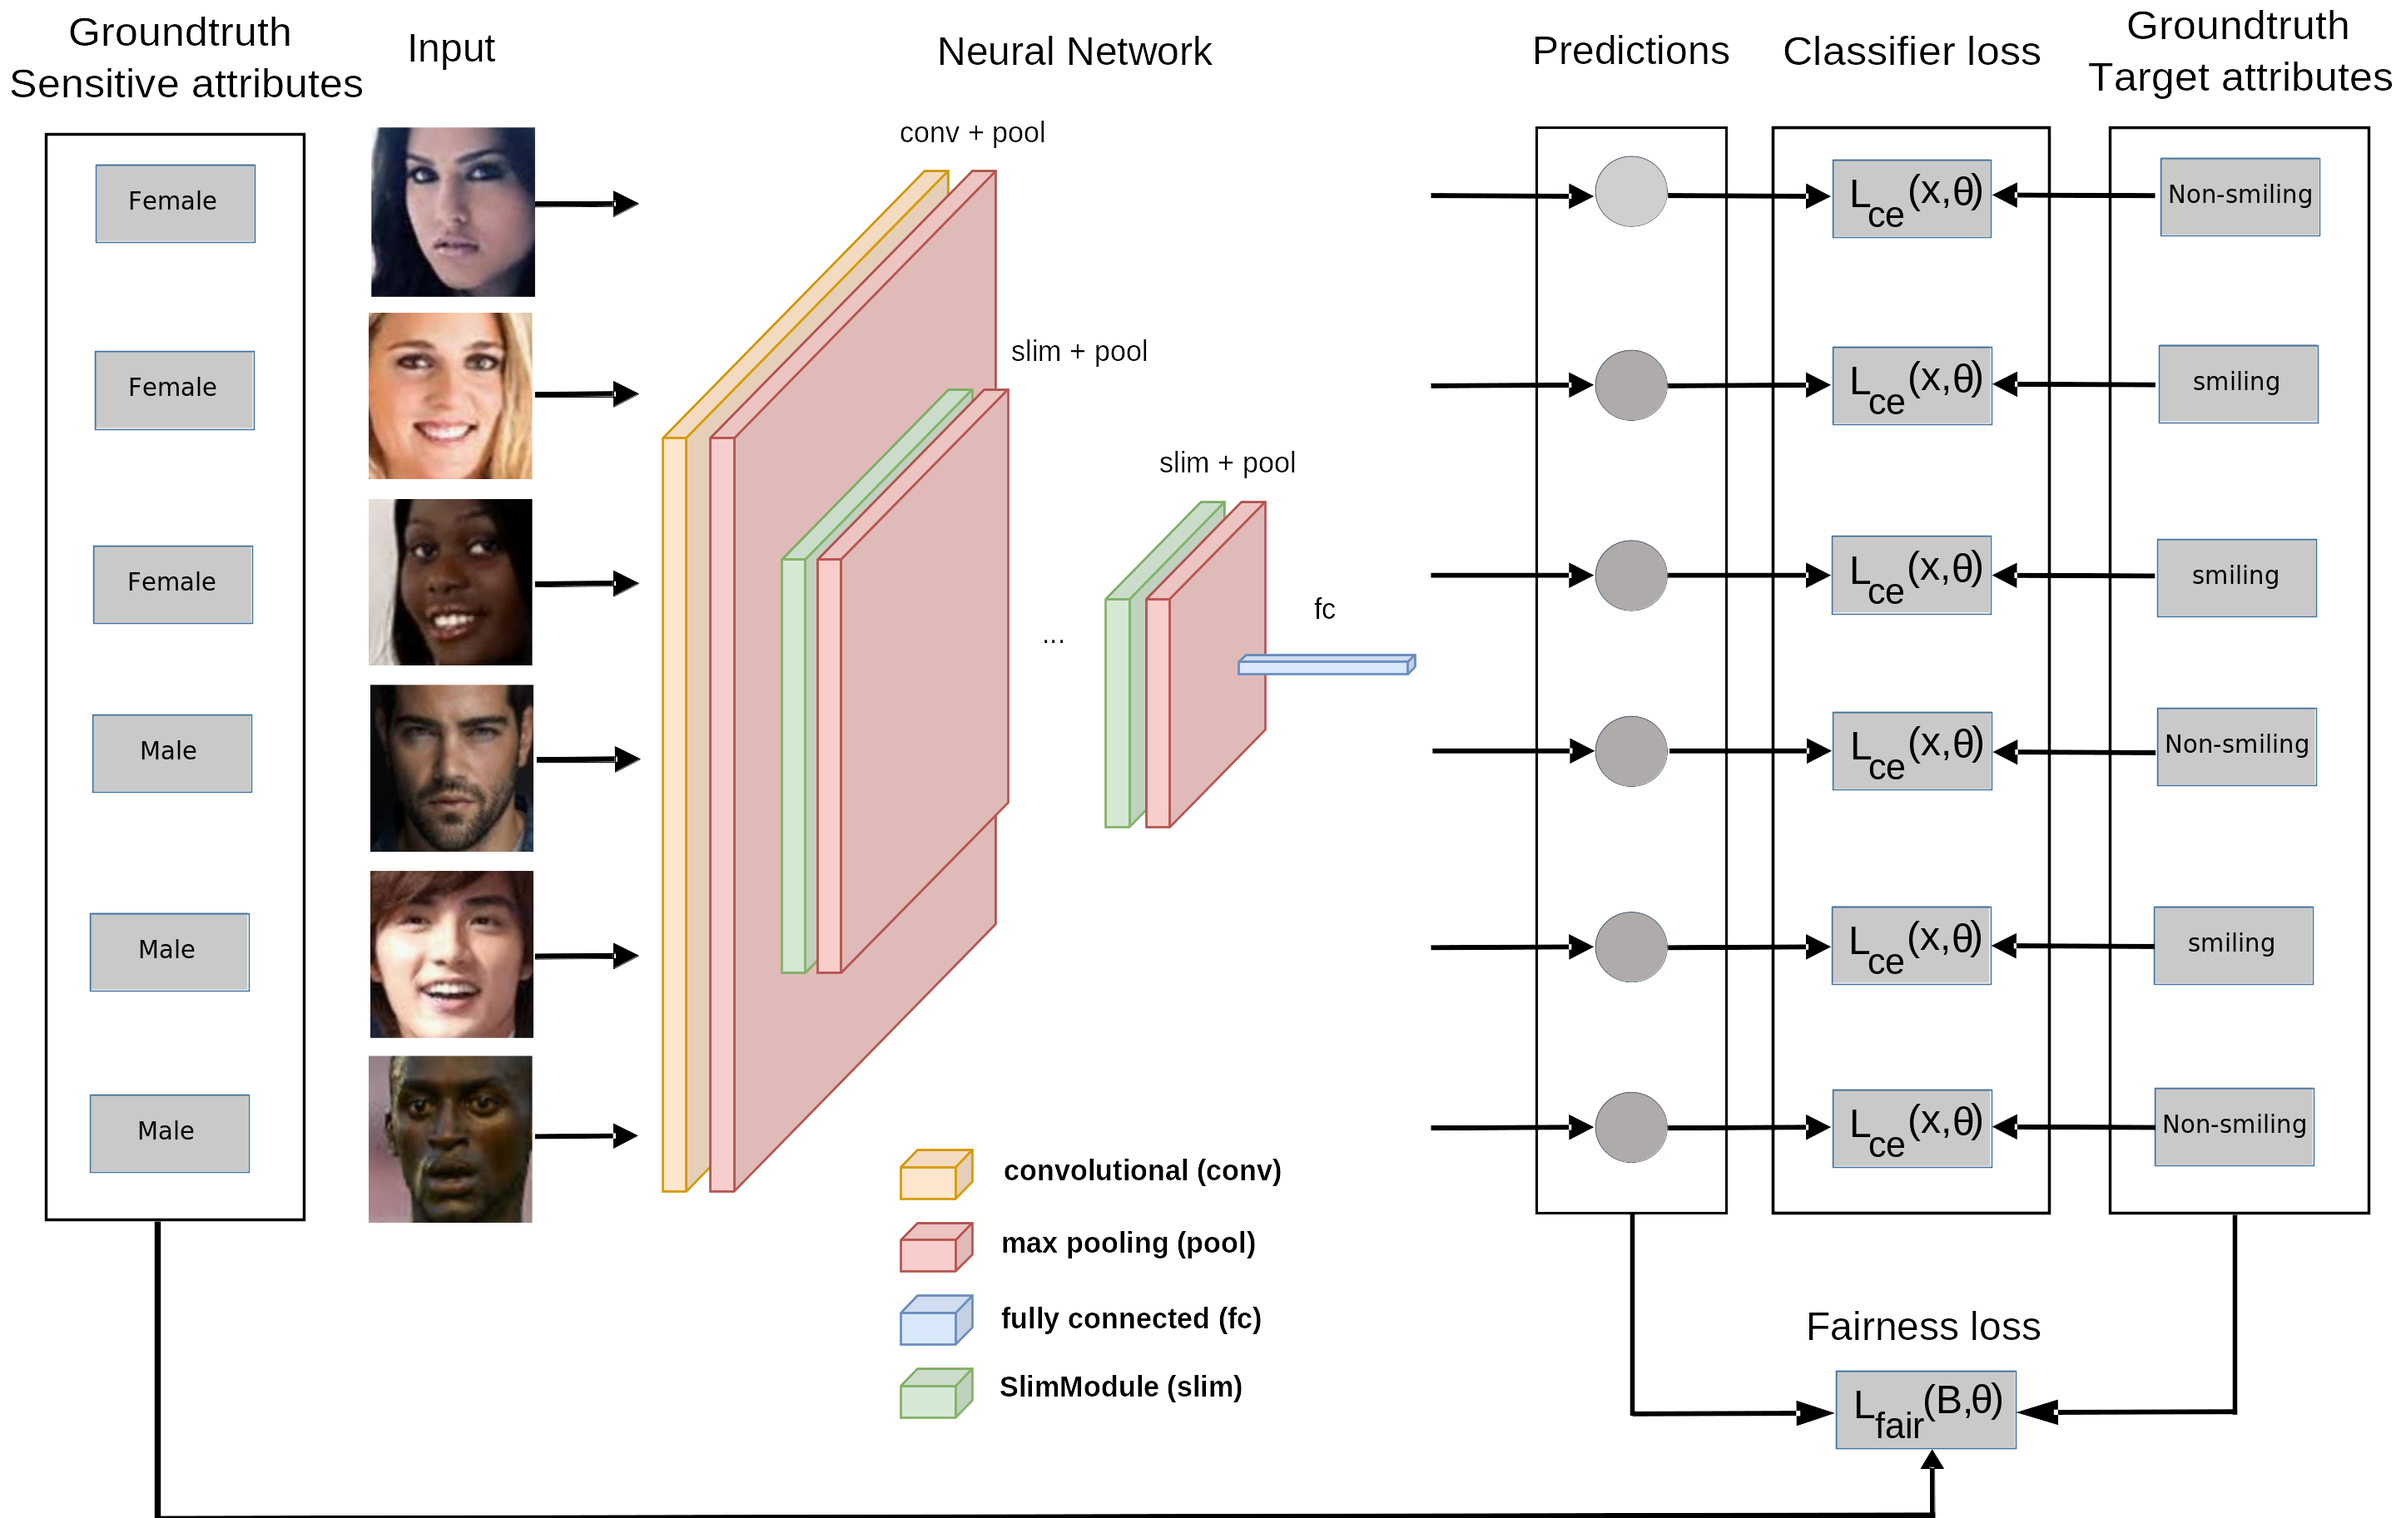
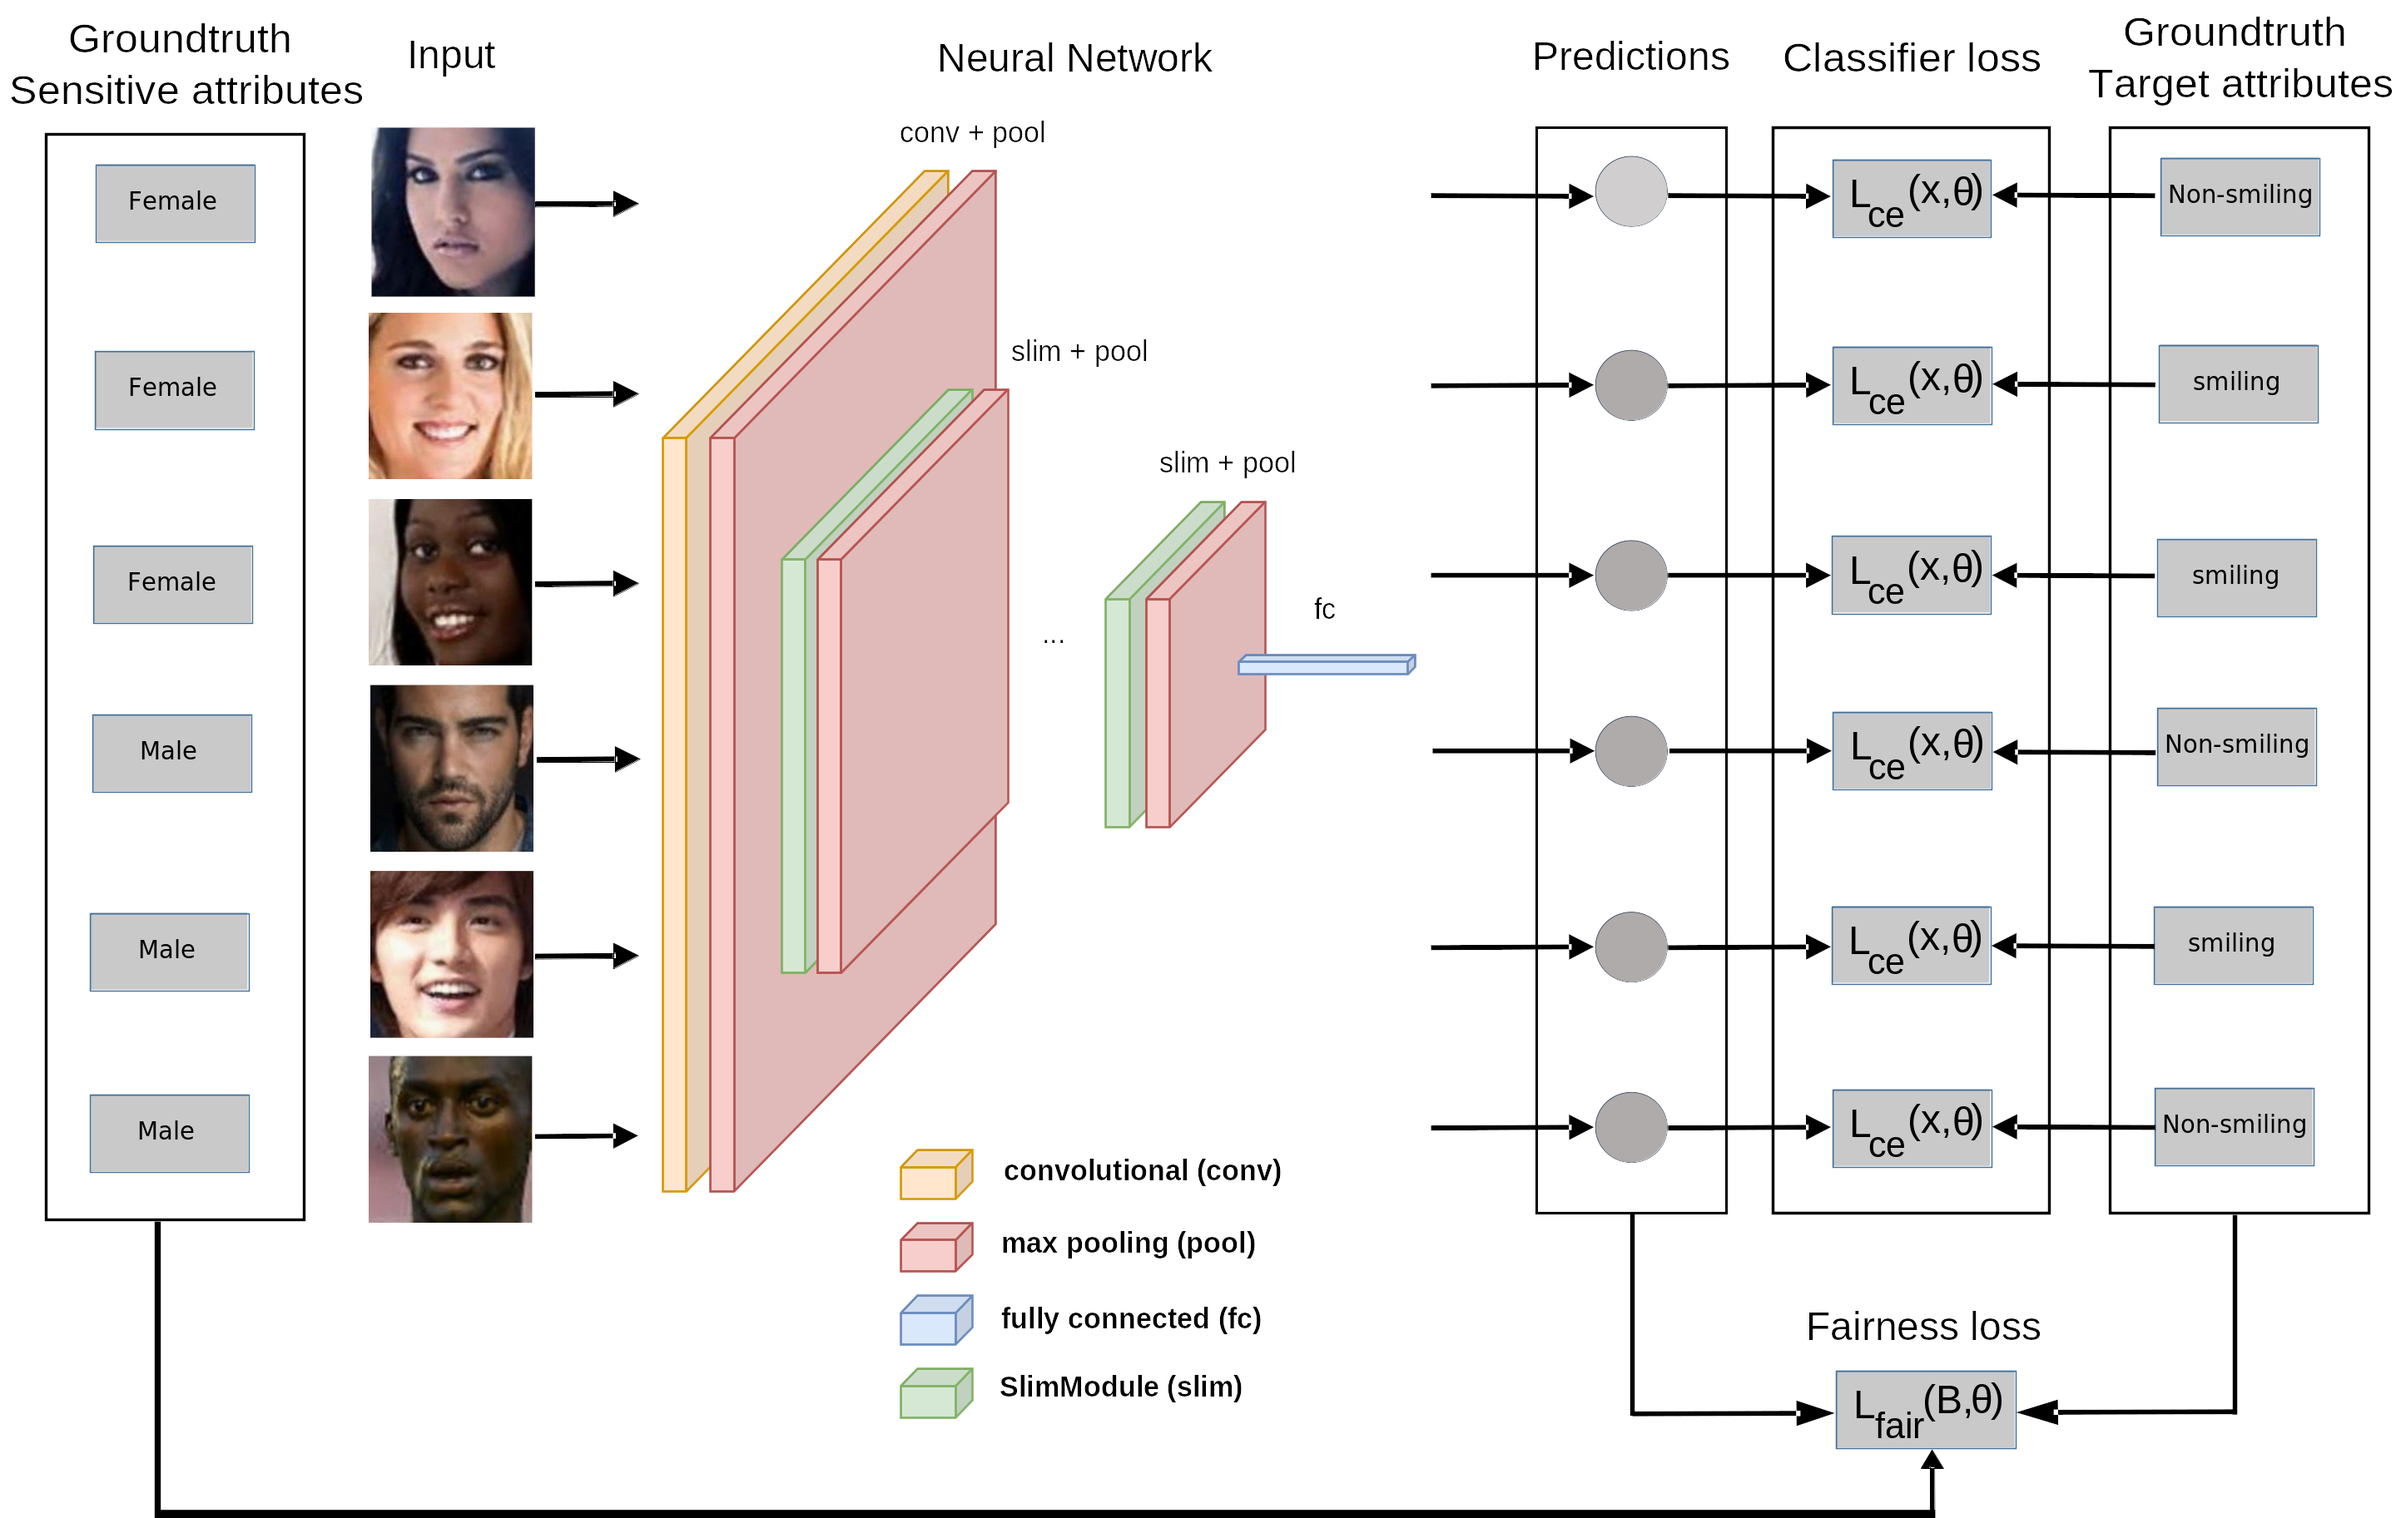
Added title image to Readme
Former-commit-id: 4f61e6ce40efe0a044c846c80b403adef4e4baa2 [formerly 5b45a118dc6ed591317f5055455eec40e0a9b132]
Former-commit-id: 93ec11238822f9c15ba6a23584adab28ac590819

diff --git a/README.md b/README.md
@@ -1,5 +1,61 @@
-# **FVAP** : Enhancing **F**airness of **V**isual **A**ttribute **P**redictors
+# **FVAP**: Enhancing **F**airness of **V**isual **A**ttribute **P**redictors
 
-This is the publicly available source code for the paper titled [Enhancing **F**airness of **V**isual **A**ttribute **P**redictors](https://arxiv.org/abs/2207.05727).
+This is the publicly available source code of our paper [Enhancing **F**airness of **V**isual **A**ttribute 
+**P**redictors](https://arxiv.org/abs/2207.05727).
 
-The details related to the code reproducibility is **coming soon**. 
+[_Tobias Hänel_](https://arxiv.org/search/cs?searchtype=author&query=Hänel%2C+Tobias),
+[_Nishant Kumar_](https://arxiv.org/search/cs?searchtype=author&query=Kumar%2C+Nishant),
+[_Dmitrij Schlesinger_](https://arxiv.org/search/cs?searchtype=author&query=Schlesinger%2C+Dmitrij),
+[_Mengze Li_](https://arxiv.org/search/cs?searchtype=author&query=Li%2C+Mengze),
+[_Erdem Ünal_](https://arxiv.org/search/cs?searchtype=author&query=Ünal%2C+Erdem),
+[_Abouzar Eslami_](https://arxiv.org/search/cs?searchtype=author&query=Eslami%2C+Abouzar),
+[_Stefan Gumhold_](https://arxiv.org/search/cs?searchtype=author&query=Gumhold%2C+Stefan)
+
+![Method Overview](title_image.png)
+
+Our new training procedure improves the fairness of image classification models w.r.t. to sensitive attributes such as
+gender, age, and ethnicity. We add a weighted fairness loss to the standard cross-entropy loss during mini-batch
+gradient descent. It estimates the fairness of the model’s  predictions based on the sensitive attributes and the
+predicted and ground-truth target attributes from the samples within each batch.
+
+[//]: # (## Datasets)
+
+[//]: # ()
+[//]: # (We validate our contributions on three data sets. The first study of interest concerns the CelebFaces attributes &#40;)
+
+[//]: # (CelebA&#41; data set [16] which contains more than 200K images of celebrities and manually annotated facial attributes.)
+
+[//]: # (Secondly, we investigate the UTKFace facial image data set [17] which contains over 20K images from a broad range of age)
+
+[//]: # (groups. In addition to the facial images, we perform experiments with a data set from the SIIM-ISIC melanoma)
+
+[//]: # (classification challenge [10] that contains 33k+ skin lesion images.)
+
+[//]: # ()
+[//]: # (Our new training procedure that improves the fairness)
+
+[//]: # (of image classification models w.r.t. to sensitive attributes such as gender, age,)
+
+[//]: # (and ethnicity. We add a weighted fairness loss to the standard cross-entropy)
+
+[//]: # (loss during mini-batch gradient descent. It estimates the fairness of the model’s)
+
+[//]: # (predictions based on the sensitive attributes and the predicted and ground-truth)
+
+[//]: # (target attributes from the samples within each batch.)
+
+[//]: # ()
+[//]: # ()
+[//]: # (### CelebA)
+
+[//]: # ()
+[//]: # (### UTKFace)
+
+[//]: # ()
+[//]: # (### SIIM-ISIC Melanoma)
+
+[//]: # ()
+[//]: # (## Dependencies)
+
+[//]: # ()
+[//]: # (##)
